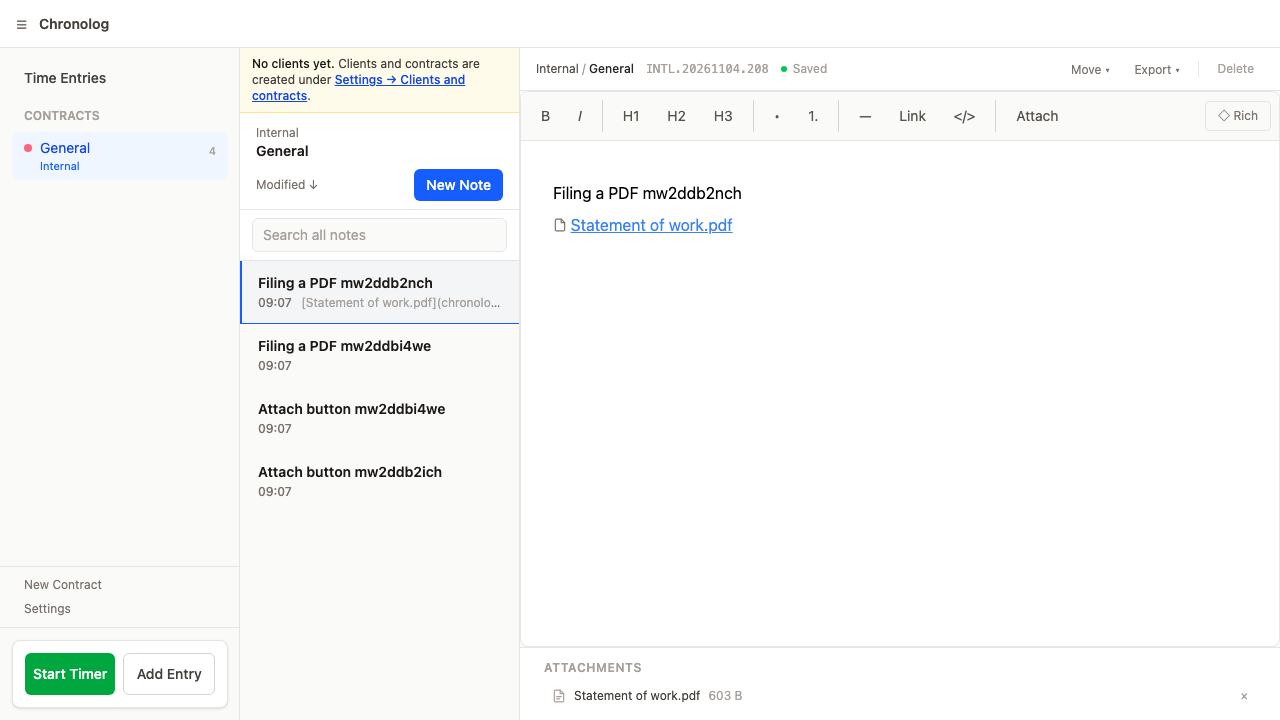
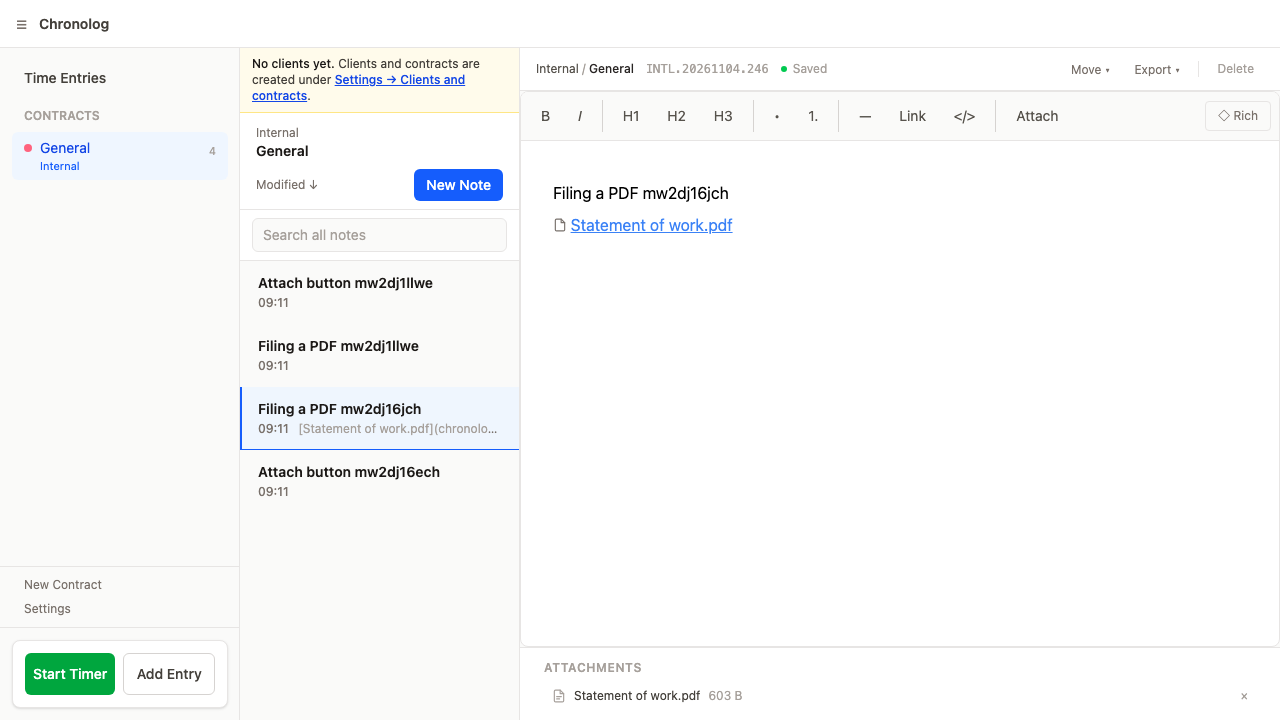
Never open an SVG attachment as a page
A blob URL carries the app's origin, so an SVG opened in a tab would run its scripts as
Chronolog. openAttachment checks the blob's type and refuses active content; the
attachment list shows SVG names without the open button (they still render in <img>).

diff --git a/src/lib/components/notes/extensions/attachment-link.ts b/src/lib/components/notes/extensions/attachment-link.ts
@@ -8,6 +8,12 @@
 
 import { parseChronologUrl, resolveAttachmentUrl } from './attachment-resolver.js';
 
+/**
+ * Types never opened as a page: a blob URL carries the app's origin, so an SVG (or HTML) opened in
+ * a tab would run its scripts as Chronolog. SVG images still render inside `<img>`, where they cannot.
+ */
+const ACTIVE_CONTENT_TYPES = new Set(['image/svg+xml', 'text/html', 'application/xhtml+xml', 'text/xml', 'application/xml']);
+
 /** Extra schemes for the Link mark (`StarterKit.configure({ link: { protocols } })`). */
 export const ATTACHMENT_LINK_PROTOCOLS = ['chronolog'];
 
@@ -22,16 +28,26 @@ export function attachmentHrefFromTarget(target: EventTarget | null): string | n
 /**
  * Open the attachment behind a `chronolog://attachment/<id>` URL in a new tab. The tab is opened
  * before the fetch, inside the click, so a popup blocker lets it through; it is pointed at the
- * blob URL once the bytes arrive, and closed again if they never do. Resolves false on failure.
+ * blob URL once the bytes arrive, and closed again if they never do or are active content (SVG).
+ * Resolves false on failure.
  */
 export async function openAttachment(chronologUrl: string, opener: Pick<Window, 'open'> = window): Promise<boolean> {
 	const newTab = opener.open('about:blank', '_blank');
 	const blobUrl = await resolveAttachmentUrl(chronologUrl);
-	if (!blobUrl) {
+	const blobType = blobUrl ? await blobContentType(blobUrl) : null;
+	if (!blobUrl || blobType === null || ACTIVE_CONTENT_TYPES.has(blobType)) {
 		newTab?.close();
 		return false;
 	}
 	if (newTab) newTab.location.href = blobUrl;
 	else opener.open(blobUrl, '_blank');
 	return true;
+}
+
+async function blobContentType(blobUrl: string): Promise<string | null> {
+	try {
+		return (await (await fetch(blobUrl)).blob()).type.split(';')[0].trim().toLowerCase();
+	} catch {
+		return null;
+	}
 }

diff --git a/src/lib/components/notes/extensions/attachment-link.test.ts b/src/lib/components/notes/extensions/attachment-link.test.ts
@@ -52,7 +52,7 @@ describe('attachment links in the editor', () => {
 
 describe('openAttachment', () => {
 	it('opens a tab at once and points it at the blob URL of the fetched file', async () => {
-		const fetchMock = vi.fn().mockResolvedValue(new Response(new Blob(['%PDF-1.4'], { type: 'application/pdf' })));
+		const fetchMock = vi.fn(async () => new Response('%PDF-1.4', { headers: { 'Content-Type': 'application/pdf' } }));
 		vi.stubGlobal('fetch', fetchMock);
 		URL.createObjectURL = vi.fn(() => 'blob:http://localhost/abc');
 		URL.revokeObjectURL = vi.fn();
@@ -63,6 +63,17 @@ describe('openAttachment', () => {
 		expect(opener.open).toHaveBeenCalledWith('about:blank', '_blank');
 		expect(fetchMock).toHaveBeenCalledWith('/api/attachments/550e8400-e29b-41d4-a716-446655440000');
 		expect(newTab.location.href).toBe('blob:http://localhost/abc');
+	});
+
+	it('never opens an SVG as a page (its scripts would run with the app origin)', async () => {
+		vi.stubGlobal('fetch', vi.fn(async () => new Response('<svg/>', { headers: { 'Content-Type': 'image/svg+xml' } })));
+		URL.createObjectURL = vi.fn(() => 'blob:http://localhost/svg');
+		URL.revokeObjectURL = vi.fn();
+		const newTab = { location: { href: 'about:blank' }, close: vi.fn() };
+		const opener = { open: vi.fn().mockReturnValue(newTab) };
+		expect(await openAttachment(ATTACHMENT_URL, opener as unknown as Window)).toBe(false);
+		expect(newTab.close).toHaveBeenCalled();
+		expect(newTab.location.href).toBe('about:blank');
 	});
 
 	it('closes the tab again when the file cannot be fetched', async () => {

diff --git a/src/lib/components/notes/AttachmentList.svelte b/src/lib/components/notes/AttachmentList.svelte
@@ -83,14 +83,19 @@
 								<path d="M14 2H6a2 2 0 0 0-2 2v16a2 2 0 0 0 2 2h12a2 2 0 0 0 2-2V8z" /><path d="M14 2v6h6" /><path d="M8 13h8M8 17h5" />
 							</svg>
 						{/if}
-						<button
-							type="button"
-							onclick={() => openAttachmentFile(attachment.id)}
-							class="text-stone-700 truncate hover:text-blue-600 hover:underline text-left"
-							title="Open {attachment.filename} in a new tab"
-						>
-							{attachment.filename}
-						</button>
+						{#if attachment.mimeType === 'image/svg+xml'}
+							<!-- An SVG is never opened as a page (attachment-link.ts); it shows in the note -->
+							<span class="text-stone-700 truncate">{attachment.filename}</span>
+						{:else}
+							<button
+								type="button"
+								onclick={() => openAttachmentFile(attachment.id)}
+								class="text-stone-700 truncate hover:text-blue-600 hover:underline text-left"
+								title="Open {attachment.filename} in a new tab"
+							>
+								{attachment.filename}
+							</button>
+						{/if}
 						<span class="text-stone-400 whitespace-nowrap" data-testid="attachment-size">{formatFileSize(attachment.sizeBytes)}</span>
 					</div>
 					<button

diff --git a/src/lib/components/notes/extensions/README.md b/src/lib/components/notes/extensions/README.md
@@ -51,7 +51,7 @@ Replaces StarterKit's `text` node. Its markdown serializer escapes `<` only wher
 
 ### attachment-link.ts
 
-A PDF (any non-image attachment) sits in a note as an ordinary link, `[report.pdf](chronolog://attachment/{id})` (sprint 036). The Link mark keeps only hrefs whose scheme it knows, so `NoteEditor` passes `ATTACHMENT_LINK_PROTOCOLS` (`chronolog`) to StarterKit's `link` options; without it the href is dropped on parse. `attachmentHrefFromTarget(target)` finds such a link from a click, and `openAttachment(url)` opens a tab inside the click (so popup blockers allow it), then points it at the resolver's blob URL (closing it if the fetch fails). `AttachmentList` opens files the same way. The editor CSS gives these links a document icon; printing (`note-print.ts`) replaces them with the filename marked "(attached file)".
+A PDF (any non-image attachment) sits in a note as an ordinary link, `[report.pdf](chronolog://attachment/{id})` (sprint 036). The Link mark keeps only hrefs whose scheme it knows, so `NoteEditor` passes `ATTACHMENT_LINK_PROTOCOLS` (`chronolog`) to StarterKit's `link` options; without it the href is dropped on parse. `attachmentHrefFromTarget(target)` finds such a link from a click, and `openAttachment(url)` opens a tab inside the click (so popup blockers allow it), then points it at the resolver's blob URL (closing it if the fetch fails). `AttachmentList` opens files the same way. SVG (and other active content) is never opened as a page, since a blob URL carries the app origin. The editor CSS gives these links a document icon; printing (`note-print.ts`) replaces them with the filename marked "(attached file)".
 
 ### attachment-resolver.ts
 
